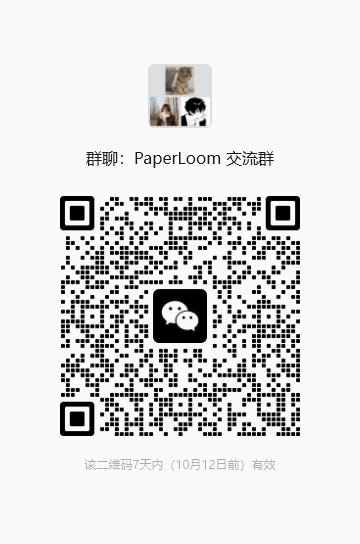
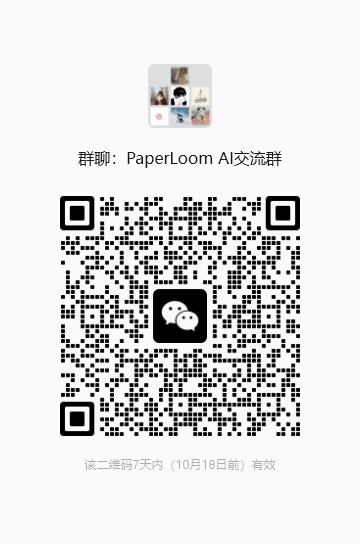
docs: refresh community QR code and multilingual download guidance

diff --git a/README.vi.md b/README.vi.md
@@ -153,7 +153,7 @@ Chọn nhiều tài liệu trong thư viện rồi nhấn Lưu về Zotero để
 
 ## Bắt đầu nhanh
 
-Truy cập [GitHub Releases](https://github.com/luffysolution-svg/paperloom/releases) để tải PaperLoom. v0.1.3 cung cấp bộ cài Windows x64 và bản portable; các gói desktop cho macOS và Linux sẽ xuất hiện trên trang phát hành tương ứng khi có sẵn.
+Tải bản phát hành PaperLoom mới nhất từ [GitHub Releases](https://github.com/luffysolution-svg/paperloom/releases/latest): bộ cài và bản portable cho Windows x64, DMG cho macOS ARM64 và DEB cho Linux x64.
 
 1. Mở PaperLoom và nhập thông tin xác thực API của dịch vụ OCR và mô hình dịch trong Cài đặt. Bạn có thể dùng MinerU, PaddleOCR và các mô hình dịch được hỗ trợ.
 2. Nhấn Thêm PDF hoặc chọn tài liệu trên máy qua Nhập từ Zotero. Tệp PDF trong Zotero cần được tải về máy trước.
@@ -231,6 +231,8 @@ Xin cảm ơn tác giả và những người đóng góp cho [RetainPDF](https:
 PaperLoom được phát hành theo [GNU AGPL-3.0](LICENSE). Mỗi bản phát hành chính thức cũng cung cấp đầy đủ [mã nguồn tương ứng](CORRESPONDING_SOURCE.md), gồm mã nguồn PyMuPDF/MuPDF khớp với bộ cài đặt và image app. Phần nền tảng RetainPDF giữ nguyên [thông báo bản quyền và giấy phép MIT](LICENSE-MIT); các phần phụ thuộc và tài nguyên khác tiếp tục tuân theo giấy phép riêng như ghi trong [thông báo bên thứ ba](THIRD_PARTY_NOTICES.md).
 
 ## Cộng đồng PaperLoom
+
+Mã QR nhóm hiện tại hết hạn vào **ngày 18 tháng 10 năm 2026**. Nếu mã đã hết hạn, hãy liên hệ người duy trì qua mã WeChat cá nhân ở bên phải.
 
 <table>
   <tr>

diff --git a/README.en.md b/README.en.md
@@ -153,7 +153,7 @@ Select several documents in the library and click Save to Zotero to see creation
 
 ## Quick start
 
-Visit [GitHub Releases](https://github.com/luffysolution-svg/paperloom/releases) to download PaperLoom. v0.1.3 provides a Windows x64 installer and portable package; macOS and Linux desktop packages will be listed on their release pages when available.
+Download the latest PaperLoom release from [GitHub Releases](https://github.com/luffysolution-svg/paperloom/releases/latest): a Windows x64 installer and portable package, a macOS ARM64 DMG, and a Linux x64 DEB.
 
 1. Open PaperLoom and enter your OCR-service and translation-model API credentials in Settings. You can use MinerU, PaddleOCR, and supported translation models.
 2. Click Add PDF, or select local papers through Import from Zotero. Zotero PDF attachments must be downloaded to your computer first.
@@ -231,6 +231,8 @@ Thank you again to the original author and contributors of [RetainPDF](https://g
 PaperLoom is released under the [GNU AGPL-3.0](LICENSE). Every official release also provides the complete [corresponding source](CORRESPONDING_SOURCE.md), including the PyMuPDF/MuPDF source matching the installers and app image. The RetainPDF foundation retains its original [MIT copyright and permission notice](LICENSE-MIT); other dependencies and assets remain under their respective licenses as documented in the [third-party notices](THIRD_PARTY_NOTICES.md).
 
 ## PaperLoom community
+
+The current community QR code expires on **October 18, 2026**. If it has expired, contact the maintainer through the personal WeChat code on the right.
 
 <table>
   <tr>
